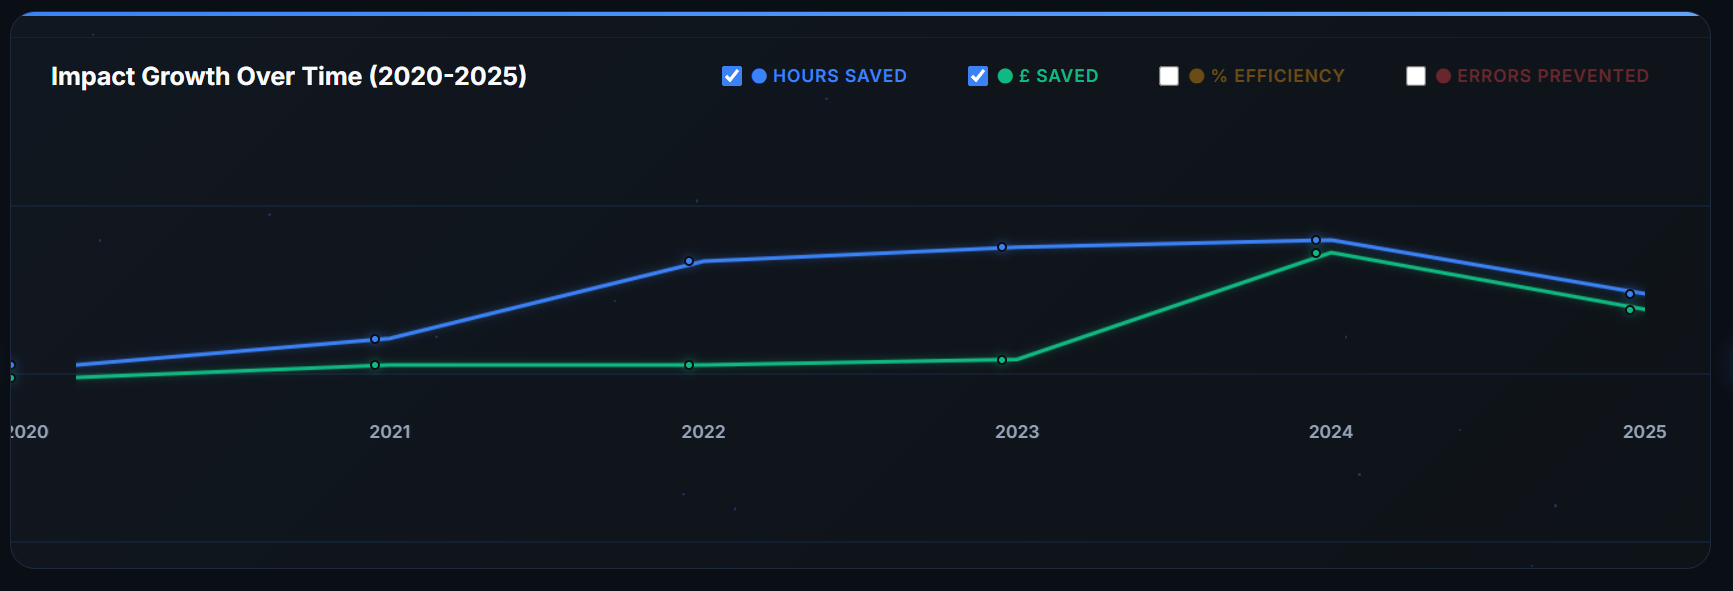
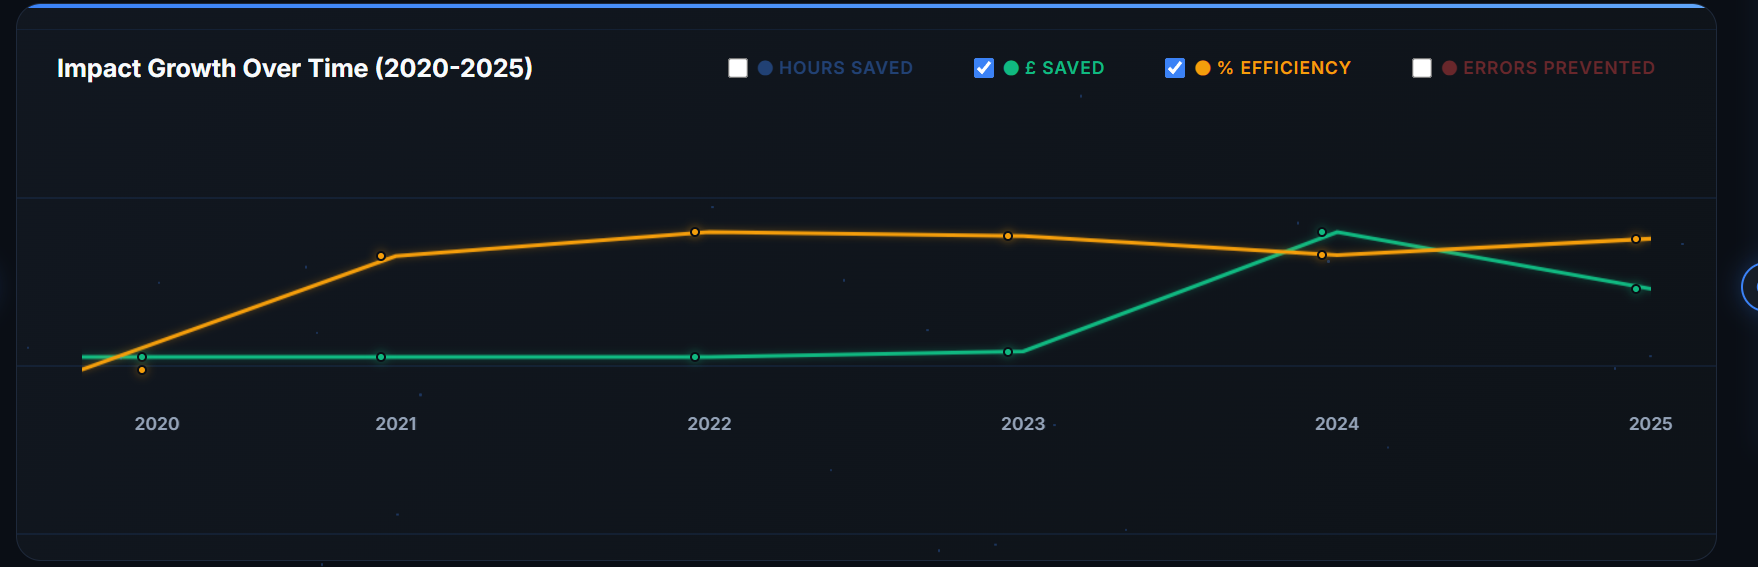
Fix 2020 year label and efficiency dot alignment
FIXES:
1. 2020 year label now positioned under dots (+60px offset to match dots)
2. Fixed efficiency dot vertical alignment - changed from inline -4px to marginTop
   - Was: top = padding.top + point.y + yOffset - 4
   - Now: top = padding.top + point.y + yOffset, marginTop = -4px
   - This ensures dot centers exactly on line position

Efficiency line at 2020 should now go through the dot center.

🤖 Generated with [Claude Code](https://claude.com/claude-code)

diff --git a/index.html b/index.html
@@ -5581,6 +5581,7 @@
                         // Check if this dot overlaps with any previous metric's same point
                         for (let i = 0; i < metricIndex; i++) {
                             const otherPoint = metricsPoints[i].points[index];
+                            // Only apply offset if they're truly overlapping
                             if (Math.abs(point.y - otherPoint.y) < 15) {
                                 yOffset += 10; // Same 10px offset as lines
                             }
@@ -5595,7 +5596,9 @@
                             dotLeftPx += 60;
                         }
                         dotContainer.style.left = dotLeftPx + 'px';
-                        dotContainer.style.top = (padding.top + point.y + yOffset - 4) + 'px'; // Apply offset + center dot
+                        // Position dot vertically to match line exactly
+                        dotContainer.style.top = (padding.top + point.y + yOffset) + 'px';
+                        dotContainer.style.marginTop = '-4px'; // Center 8px dot on line
                         dotContainer.style.transform = 'translateX(-50%)'; // Only center horizontally
                         dotContainer.style.zIndex = `${20 + metricIndex * 10 + index}`; // Better z-index stacking
                         dotContainer.style.cursor = 'pointer';
@@ -5662,8 +5665,11 @@
                             const yearLabel = document.createElement('div');
                             yearLabel.textContent = point.year;
                             yearLabel.style.position = 'absolute';
-                            // Position year label - keep at normal position (don't move with dots)
-                            const yearLeftPx = (point.x / 100) * canvas.width;
+                            // Position year label - move 2020 to align with moved dots
+                            let yearLeftPx = (point.x / 100) * canvas.width;
+                            if (point.x === 0 || index === 0) {
+                                yearLeftPx += 60; // Match the dot offset for 2020
+                            }
                             yearLabel.style.left = yearLeftPx + 'px';
                             yearLabel.style.bottom = '15px';
                             yearLabel.style.transform = 'translateX(-50%)';
